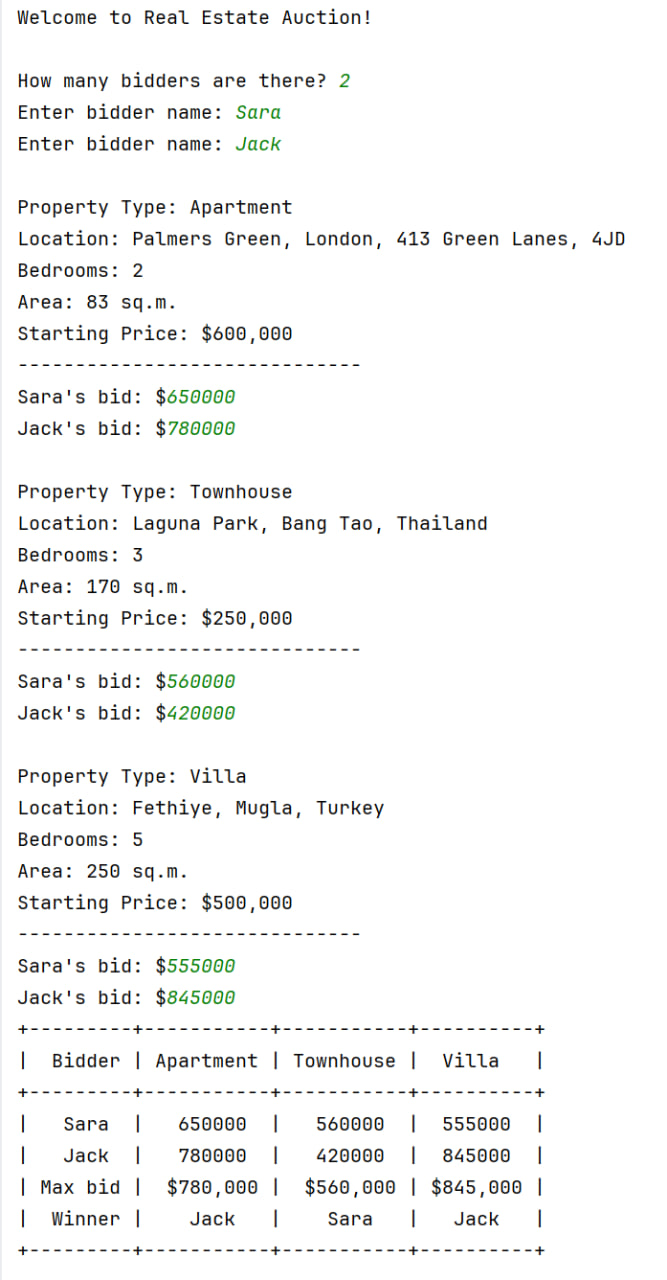
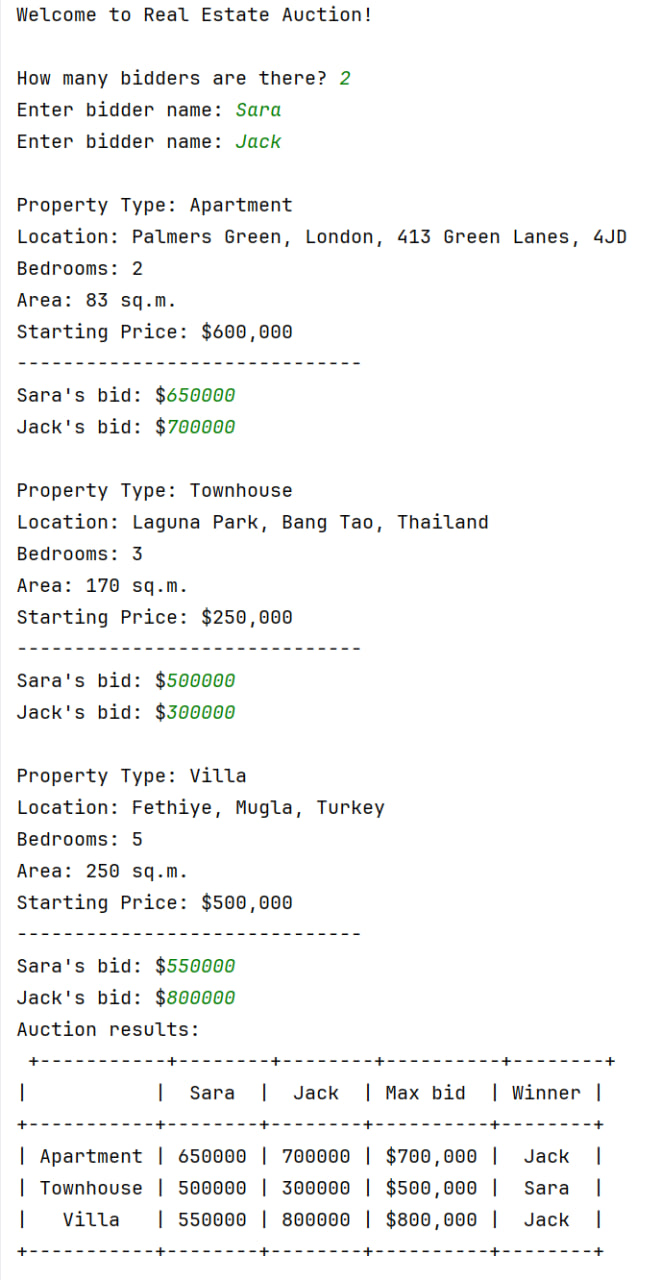
02.03.2024

diff --git a/09_Dictionaries_Nesting_Pandas/RealEstateAuction.py b/09_Dictionaries_Nesting_Pandas/RealEstateAuction.py
@@ -8,43 +8,25 @@ import tools
 # All necessary variables
 name = ""
 bid = 0
-bidders =  []
-all_bids = {}
+bidders = []
 highest_bid = 0
 highest_bid_name = ""
 
 # Setting up Lots data structure
-properties = [
-    {
-        "property": "Apartment",
-        "description": {
-            "location": "Palmers Green, London, 413 Green Lanes, 4JD",
-            "bedrooms": 2,
-            "area": 83,
-            "starting_price": 600000
-        }
-    },
-    {
-        "property": "Townhouse",
-        "description": {
-            "location": "Laguna Park, Bang Tao, Thailand",
-            "bedrooms": 3,
-            "area": 170,
-            "starting_price": 250000
-        }
-    },
-    {
-        "property": "Villa",
-        "description": {
-            "location": "Fethiye, Mugla, Turkey",
-            "bedrooms": 5,
-            "area": 250,
-            "starting_price": 500000
-        }
-    }
-]
+lots = {
+    "property": ["Apartment", "Townhouse", "Villa"],
+    "location": ["Palmers Green, London, 413 Green Lanes, 4JD", "Laguna Park, Bang Tao, Thailand",
+                 "Fethiye, Mugla, Turkey"],
+    "bedrooms": [2, 3, 5],
+    "area": [83, 170, 250],
+    "starting_price": [600000, 250000, 500000]
+}
 
-df_lots = pd.DataFrame(properties)
+all_bids = {
+    "property": ["Apartment", "Townhouse", "Villa"]
+}
+
+df_lots = pd.DataFrame(lots)
 
 # Program starts
 print("Welcome to Real Estate Auction!")
@@ -56,23 +38,15 @@ if num_of_bidders == 0:
 for i in range(num_of_bidders):
     name = input("Enter bidder name: ")
     bidders.append(name)
-
-# The following snippet keeps int type for bids values.
-# Otherwise, they become floats when recording into DataFrame.
-
-for index, row in df_lots.iterrows():
-    all_bids[row['property']] = {name: 0 for name in bidders}
-
-df_bids = pd.DataFrame(all_bids)
+    all_bids[bidders[i]] = []
 
 # Starting auction
 for index, row in df_lots.iterrows():
     print("\nProperty Type:", row['property'])
-    description = row['description']
-    print("Location:", description['location'])
-    print("Bedrooms:", description['bedrooms'])
-    print("Area:", description['area'], "sq.m.")
-    print("Starting Price:", "${:,}".format(description['starting_price']))
+    print("Location:", row['location'])
+    print("Bedrooms:", row['bedrooms'])
+    print("Area:", row['area'], "sq.m.")
+    print("Starting Price:", "${:,}".format(row['starting_price']))
     print("-" * 30)
 
     highest_bid = 0
@@ -80,25 +54,27 @@ for index, row in df_lots.iterrows():
     for i in range(num_of_bidders):
         bid = tools.to_int(input(f"{bidders[i]}'s bid: $"))
 
-        if bid <= int(description['starting_price']):
+        if bid <= int(row['starting_price']):
             # If so, I warned you :)
             bid = tools.to_int(input("Bid above the starting price, otherwise you will lose: $"))
 
-        df_bids.loc[bidders[i], row['property']] = bid
+        all_bids[bidders[i]].append(bid)
+
+df_bids = pd.DataFrame(all_bids)
 
 # Final calculations
-max_bids = df_bids.max().apply(lambda x: "${:,}".format(x))
-winners_names = df_bids.idxmax()
-
-df_max_bids = pd.DataFrame(max_bids, columns=['Max bid']).T
-df_winners_names = pd.DataFrame(winners_names, columns=['Winner']).T
-
-df_result = pd.concat([df_bids, df_max_bids, df_winners_names])
+max_bids = df_bids.select_dtypes(include=[float, int]).max(axis=1).apply(lambda x: "${:,}".format(x))
+winners_names = df_bids.select_dtypes(include=[float, int]).idxmax(axis=1)
 
 table_bids = PrettyTable()
+field_names = df_bids.columns.tolist()
+field_names[0] = " "
+table_bids.field_names = field_names
 
-table_bids.field_names = ['Bidder'] + df_result.columns.tolist()
-for row_name, row in df_result.iterrows():
-    table_bids.add_row([row_name] + row.tolist())
+for index, row in df_bids.iterrows():
+    table_bids.add_row(row.tolist())
 
-print(table_bids)
+table_bids.add_column("Max bid", max_bids)
+table_bids.add_column("Winner", winners_names)
+
+print("\nAuction results:\n", table_bids)
